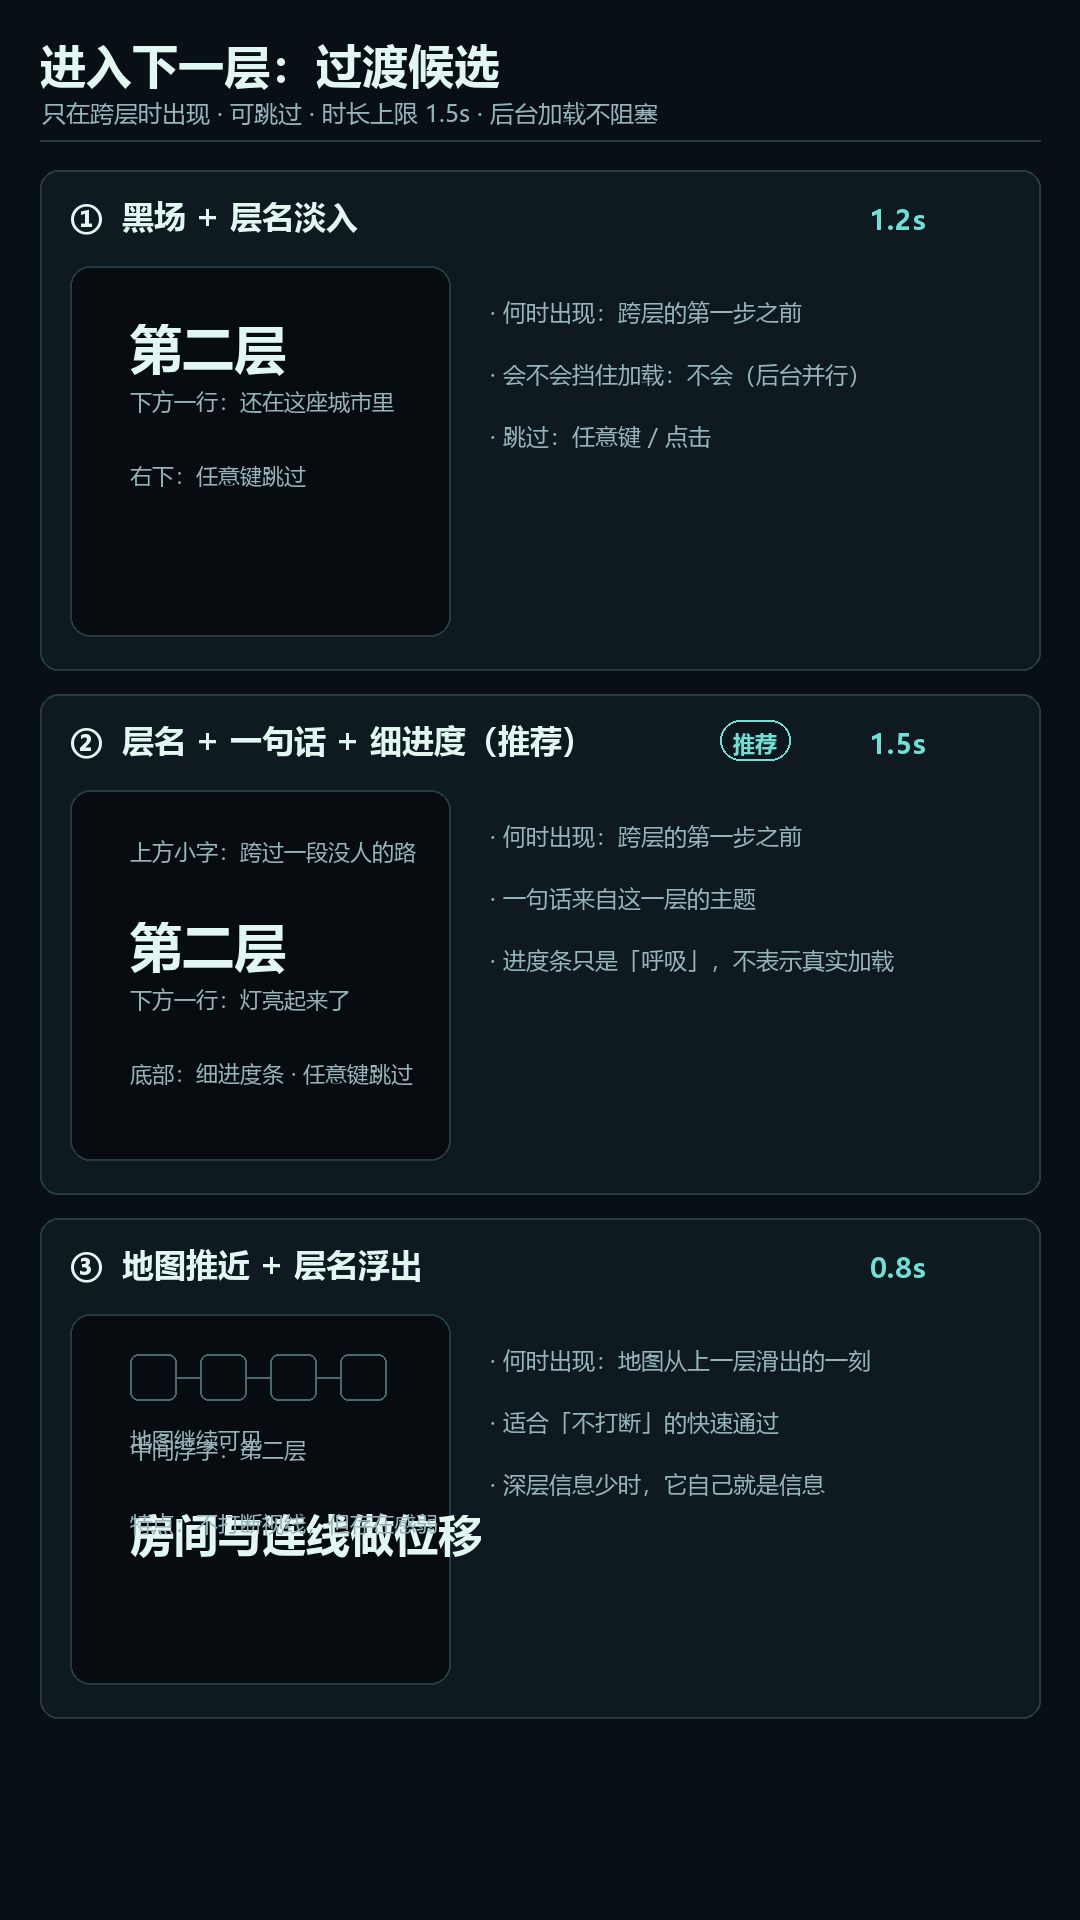
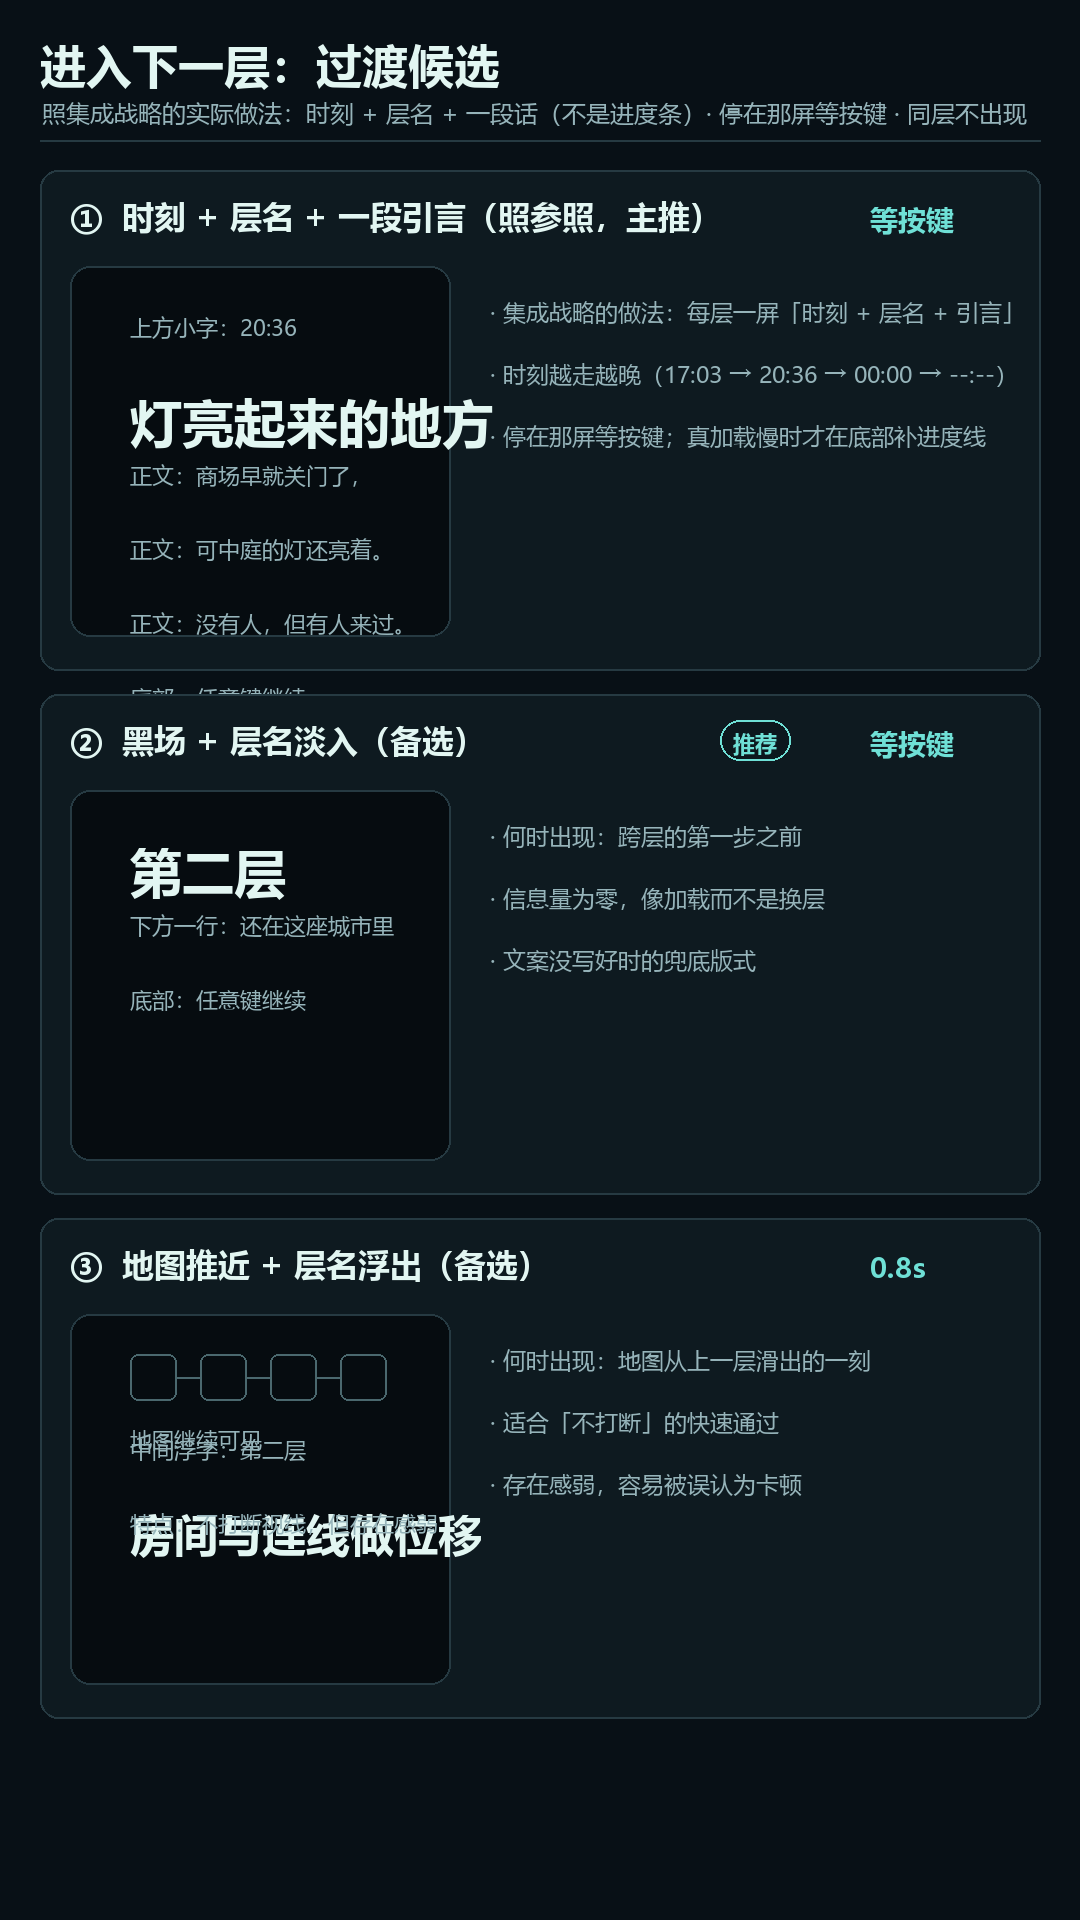
docs(layer-ui): 按集成战略的真实做法改稿 —— 过渡=时刻+层名+引言，信息=节点级浓雾
作者要求："过渡筛选、层级信息显示这些设计，自己去查集成战略的实际做法。"
查证结果有三处和我上一稿不一样，本稿按事实改，并标清"照抄 / 改造 / 不抄"。

查到的事实（出处见文档 §8，MediaWiki API 抓的 wikitext）
- 进入下一层：**一屏「时刻 + 层名 + 一段氛围引言」**（17:03 / 20:36 / 00:00 / --:--），
  每层另有专属失败文案；结算里记一条 "You entered the {floor name} zone"。**不是进度条**。
- 层的结构：每层节点数固定（4/4/6/6/7/4），**层末必有一个固定节点**（行商 / 馈赠 / 强敌 …），
  分支只在层内。
- "信息细节度不同"：不是按层递减，而是**节点级"浓雾（Dense Fog）"**——个别节点在可达前连类型都不给；
  另有上锁分支（看得见进不去）与隐藏分支；从阴云火花起还能**花钥匙改路**。

本稿改动
- §0 新增"查到的实际做法 + 对我们的影响"对照表；
- §1/§2 过渡改为「时刻 + 层名 + 引言」为**主推**（进度条只在真加载慢时兜底；停在那屏等按键，
  不是限时动画），并给出第一章三层文案草案（17:03 放学路上的风 / 20:36 灯亮起来的地方 /
  00:00 不是时间的那个点 / 终房 --:--）；
- §5 拆成两节：5.2 地图可见性**照参照**（整层可见 + 浓雾节点 + 上锁/隐藏分支，
  推翻我上一稿"更远的行显示 ？"）；5.1 界面信息量（状态栏/装备栏按层递减）标明是**作者口径的加法**，
  参照里没有，两者可以并存；
- §6 待拍板改成 5 条（过渡改版 + 文案、信息模型二选一、第 3 层装备栏、状态栏位置、详情卡）；
- §8 新增出处。
- art_tools/live_port/preview_layer_ui.py：过渡图改成参照版式（①时刻+层名+三行引言 / ②黑场层名 /
  ③地图推近），并重出 01_layer_transition.png。

本轮仍未改游戏代码（铁律 8：过稿后再动）。

diff --git a/art_tools/live_port/preview_layer_ui.py b/art_tools/live_port/preview_layer_ui.py
@@ -128,14 +128,15 @@ def gear_cell(d, x, y, size, rarity=None, used=False, unknown=False, index=0):
 
 
 def build_transition():
-    img, d = canvas("进入下一层：过渡候选", "只在跨层时出现 · 可跳过 · 时长上限 1.5s · 后台加载不阻塞")
+    img, d = canvas("进入下一层：过渡候选", "照集成战略的实际做法：时刻 + 层名 + 一段话（不是进度条）· 停在那屏等按键 · 同层不出现")
     y = 170
     blocks = [
-        ("①", "黑场 + 层名淡入", "1.2s",
-         [("中间大字", "第二层"), ("下方一行", "还在这座城市里"), ("右下", "任意键跳过")]),
-        ("②", "层名 + 一句话 + 细进度（推荐）", "1.5s",
-         [("上方小字", "跨过一段没人的路"), ("中间大字", "第二层"), ("下方一行", "灯亮起来了"), ("底部", "细进度条 · 任意键跳过")]),
-        ("③", "地图推近 + 层名浮出", "0.8s",
+        ("①", "时刻 + 层名 + 一段引言（照参照，主推）", "等按键",
+         [("上方小字", "20:36"), ("中间大字", "灯亮起来的地方"), ("正文", "商场早就关门了，"),
+          ("正文", "可中庭的灯还亮着。"), ("正文", "没有人，但有人来过。"), ("底部", "任意键继续")]),
+        ("②", "黑场 + 层名淡入（备选）", "等按键",
+         [("中间大字", "第二层"), ("下方一行", "还在这座城市里"), ("底部", "任意键继续")]),
+        ("③", "地图推近 + 层名浮出（备选）", "0.8s",
          [("保留地图", "房间与连线做位移"), ("中间浮字", "第二层"), ("特点", "不打断视线，但存在感弱")]),
     ]
     for idx, (mark, name, dur, rows) in enumerate(blocks):
@@ -169,9 +170,11 @@ def build_transition():
                 d.text((sx + 60, ry), label + "：" + value, font=font(22), fill=TEXT)
         # 右侧说明
         notes = {
-            0: ["何时出现：跨层的第一步之前", "会不会挡住加载：不会（后台并行）", "跳过：任意键 / 点击"],
-            1: ["何时出现：跨层的第一步之前", "一句话来自这一层的主题", "进度条只是「呼吸」，不表示真实加载"],
-            2: ["何时出现：地图从上一层滑出的一刻", "适合「不打断」的快速通过", "深层信息少时，它自己就是信息"],
+            0: ["集成战略的做法：每层一屏「时刻 + 层名 + 引言」",
+                "时刻越走越晚（17:03 → 20:36 → 00:00 → --:--）",
+                "停在那屏等按键；真加载慢时才在底部补进度线"],
+            1: ["何时出现：跨层的第一步之前", "信息量为零，像加载而不是换层", "文案没写好时的兜底版式"],
+            2: ["何时出现：地图从上一层滑出的一刻", "适合「不打断」的快速通过", "存在感弱，容易被误认为卡顿"],
         }[idx]
         for i, n in enumerate(notes):
             d.text((sx + sw + 40, sy + 30 + i * 62), "· " + n, font=font(23), fill=TEXT)

diff --git a/docs/layer-ui-spec.md b/docs/layer-ui-spec.md
@@ -20,34 +20,54 @@
 
 ---
 
+## 0. 查到的实际做法（集成战略，出处见 §8）
+
+| 问题 | 集成战略的实际做法 | 对我们这一稿的影响 |
+| --- | --- | --- |
+| 进入下一层怎么表现 | **一屏「时刻 + 层名 + 一段氛围引言」**，不是加载进度条。例：第 1 层 `17:03` / *Mist-stricken Missteps*（云雾迷途）+ 三行文字；第 5 层 `00:00` / *Blood-soaked Corridor*（血染的走廊）；第 6 层时刻直接写成 `--:--`（时间已经不存在）。每层另配一段**该层专属的失败文案**；结算里会记一条 `You entered the {层名} zone`。 | 我原先主推的"细进度线"是错的：**过渡的主体是「时刻 + 层名 + 一段话」**，进度条只在真加载慢时兜底。 |
+| 层的结构 | 每层节点数**固定**（前五层 4 / 4 / 6 / 6 / 7，第六层固定 4 个），并且**层末必有一个固定节点**（第 1 层末＝行商、第 2 层末＝馈赠、第 3 层末＝强敌、第 4 层末＝馈赠、第 5 层末＝强敌）。分支只发生在层内。 | "每步 2 个候选"的方向是对的；但**层末应当钉一个固定节点**——我们第 1 层末正好是商店（对应行商 ✓），第 2 层末现在是硬仗（✗，按参照应改成"馈赠"）。 |
+| "信息细节度不同"怎么做的 | **不是按层递减**，而是**节点级遮蔽**：个别节点被标成**「浓雾（Dense Fog）」**，在它变成可达之前**完全无法辨识**，只给一句"雾里有什么东西，但你看不清"；可达时揭开。此外还有**上锁的分支**（看得见、进不去）与**隐藏的分支**（条件不满足时看不见）。 | 我原来写的"越远的行越模糊"是**我编的**，参照里没有。真实做法是"整层可见 + 少数节点被雾遮住"。两者可以并存，但必须分开写清（见 §5）。 |
+| 能不能改路线 | 自阴云火花起可以**花代价改路**：花 1 把钥匙／1 点干扰指数，跳到当前分支里的任意另一个节点，连路线一起改。 | 我提的"付费捷径"有了真实对应物：**不是入场路费，而是花东西换路**（见 chapter-route-spec 的待拍板）。 |
+
+---
+
 ## 1. 什么时候出现过渡
 
 | 时机 | 出不出现 | 备注 |
 | --- | --- | --- |
 | 同一层里换站（第 5 站 → 第 6 站） | ❌ 不出现 | 只在跨层时出现，否则一局要被打断十几次 |
-| **从第 N 层进入第 N+1 层** | ✅ 出现一次 | 一局最多两次（1→2、2→3） |
+| **从第 N 层进入第 N+1 层** | ✅ 出现一次（「时刻 + 层名 + 一段话」那一屏） | 一局最多两次（1→2、2→3） |
 | 进终房 | ✅ 用同一套，但文案换成"这一程的落点" | 与结算页衔接 |
 | 退出/放弃本局 | ❌ | 走现有的确认弹窗 |
 
 **三条硬性要求**（写进实现约束）：
 
-1. **可跳过**：任意键 / 点击立即结束过渡，不惩罚、不二次确认。
-2. **时长上限 1.5s**：默认 1.2–1.5s；玩家连点跳过时不得累计延迟。
-3. **不阻塞加载**：过渡只是"盖一层"，下一层的地图数据、商店候选、谱面都在后台准备；
-   过渡不该被真实加载时间拉长（反过来说：真加载慢时它才需要显示进度）。
+1. **一屏、等玩家确认**：像集成战略那样停在那屏上等按键（任意键／点击继续），**不是限时动画**；
+   想多看两眼就多看两眼。
+2. **不阻塞加载**：下一层的地图数据、商店候选、谱面在后台准备；**只有真加载慢**时才在底部补一条细进度线，
+   平时的过渡里没有进度条。
+3. **同层不出现**：只在跨层与进终房时出现，一局最多三次。
 
 ---
 
 ## 2. 过渡的三个候选
 
-| # | 做法 | 时长 | 好处 | 代价 | 建议 |
-| --- | --- | --- | --- | --- | --- |
-| ① | 黑场 + 层名淡入（下方一行小字） | 1.2s | 最省、最"梦核"；深色里只有字 | 信息量为零，像加载而不是换层 | 备选 |
-| ② | 层名 + 一句话 + 底部细进度线 | 1.5s | 有呼吸：一句话来自这一层的主题（"灯亮起来了"） | 需要为每层写一句话 | **推荐** |
-| ③ | 地图不动，只做推近/位移 + 层名浮出 | 0.8s | 不打断视线 | 存在感弱，容易被误认为卡顿 | 备选 |
+| # | 做法 | 好处 | 代价 | 建议 |
+| --- | --- | --- | --- | --- |
+| ① | **时刻 + 层名 + 一段氛围引言**（集成战略的真实做法） | 一屏就把"换了一层世界"交代完；层名与时刻本身就是叙事 | 每层要写 3–4 行文案 | **主推（照参照）** |
+| ② | 黑场 + 层名淡入（一行小字） | 省；深色里只有字 | 信息量为零，像加载而不是换层 | 备选（文案没写好时用它） |
+| ③ | 地图不动，只推近 + 层名浮出 | 不打断视线 | 存在感弱，容易被误认为卡顿 | 备选 |
 
-第 1 层的一句话、第 2 层的一句话、终房的一句，**各层文案**在第一版里先写死三个常量（Loc key），
-将来接进"每章一张表"。
+**第一章的三层文案草案**（照参照的"时刻"写法：时间越走越晚，第三层已经不是正常时间）：
+
+| 层 | 时刻 | 层名（草案） | 引言（草案） |
+| --- | --- | --- | --- |
+| 第 1 层 | `17:03` | 放学路上的风 | 天还没黑。你戴上耳机，路还是你认识的那条路。 |
+| 第 2 层 | `20:36` | 灯亮起来的地方 | 商场早就关门了，可中庭的灯还亮着。没有人，但有人来过。 |
+| 第 3 层 | `00:00` | 不是时间的那个点 | 末班车早开走了。你还在走，路已经不像刚才那条了。 |
+| 终房 | `--:--` | 这一程的落点 | 到这里，钟不走了。（沿用参照"时间不存在"的写法） |
+
+每层再各写一句**失败文案**（参照里每层都有）：本局在这一层失败时显示。
 
 ---
 
@@ -90,25 +110,50 @@
 
 ## 5. 每层信息细节度（总表）
 
+**先说清两条不同的东西**：
+
+- **参照的做法（节点级浓雾）**：整层的节点与连线都看得见，但**个别节点被"浓雾"遮住**——
+  在它变成可达之前连类型都不给，只给一句"雾里有什么东西，但你看不清"；可达时揭开。
+  另有"上锁分支"（看得见、进不去）与"隐藏分支"（条件不满足时看不见）——**信息与通行权分开**。
+- **我们要加的那一层（按层递减）**：这是**作者口径**（"不同层级信息细节度不同"），参照里没有。
+  它管的是**界面信息量**（状态栏/装备栏/地图各自显示多少），与上面的"节点遮蔽"是两件事，可以并存。
+
+### 5.1 界面信息量（我们的加法）
+
 | 界面 | 第 1 层（近） | 第 2 层 | 第 3 层（远） |
 | --- | --- | --- | --- |
-| 过渡 | 层名 + 一句话 | 同左 | 同左（文案换成"越来越不像你认识的地方"） |
+| 过渡 | 时刻 + 层名 + 引言 | 同左 | 同左（时刻写成 `00:00`，已经不是正常时间） |
 | 状态栏 | 全字段 | 收起来历与进度条 | 只剩 现金 / 层与步 / 负面 |
 | 装备栏 | 描边 + 名字 | 只有描边 | 统一灰 |
-| 地图 · 下一步 | 类型 + 场景名 | 只给类型 | 只给类型 |
-| 地图 · 更远的行 | "？" | "？" | "？" |
 
 理由：与基调一致（"越远越离开现实"），也让**情报类道具**（抄歌本＝本层可见、司机＝下一层可见）
 在深层更值钱——信息本身就是这一程的货币之一。
+
+### 5.2 地图可见性（照参照改）
+
+| 看什么 | 做法 |
+| --- | --- |
+| 本层地图 | **整层可见**（节点 + 连线），玩家一眼能规划路线 |
+| 下一步的候选 | 类型可见（演奏 / 硬仗 / 商店 / 事件 / 休息）——这一条现在代码里已经实现 |
+| **被"雾"遮住的节点** | 类型也不给，显示"雾"与一句氛围文字；**变成可达时揭开**（照参照的 Dense Fog） |
+| 更深的层 | 看不见（一层一层地展开，不显示未来两层的缩略） |
+| 情报类道具 | 抄歌本＝揭开本层剩余节点；司机＝揭开下一层；与"上锁/隐藏分支"配合使用 |
+
+> 这一条**推翻**我上一稿的"更远的行显示 ？"：那不是参照的做法。参照是"整层可见，少数节点被雾遮住"，
+> 而"锁定 / 隐藏分支"把**通行权**与**可见性**分开处理。代码里现存的"远处显示 ？"要按这条改掉。
 
 ---
 
 ## 6. 待拍板
 
-1. **过渡选哪一版**（推荐 ②）；以及"跳过"的触发键（任意键 / 只认点击）。
-2. **第 3 层装备栏**：统一灰（本稿）还是保留稀有度描边。
-3. **状态栏位置**：地图页顶部（本稿），还是常驻在所有成长页（商店/装备/册子）。
-4. **详情卡要不要显示"来历"**：它是"曾经有人为它花过时间"的唯一出口（设计稿 §2.5），
+1. **过渡改版**：按参照用「时刻 + 层名 + 引言」（主推）；三层文案草案在 §2，需要你过稿或重写。
+   以及"继续"的触发键（任意键 / 只认点击）。
+2. **信息模型二选一**：(a) 只照参照做"节点级浓雾 + 上锁/隐藏分支"，**不做**按层递减；
+   (b) 两者都做（浓雾 + 按层递减，本稿的样子）。我倾向 (b)：参照管"路上看得见什么"，
+   递减管"你自己身上的东西显示多少"，两者不冲突。
+3. **第 3 层装备栏**：统一灰（本稿）还是保留稀有度描边。
+4. **状态栏位置**：地图页顶部（本稿），还是常驻在所有成长页（商店/装备/册子）。
+5. **详情卡要不要显示"来历"**：它是"曾经有人为它花过时间"的唯一出口（设计稿 §2.5），
    建议保留，但作者可以决定它只出现在册子里。
 
 ---
@@ -124,3 +169,20 @@
 
 **验收模板**（实现时照这个交）：① 自检：只在跨层触发、可跳过、时长上限、装备栏不超过 8 格；
 ② Play：走一条跨 1→2→3 的路线，看三次过渡与三层状态栏/装备栏的差异；③ 反例：同层换站不出现过渡。
+
+---
+
+## 8. 出处（2026-09-27 查证）
+
+- **Arknights Fandom Wiki — *Integrated Strategies*（主条目）**：楼层划分与每层节点数
+  （前五层 4 / 4 / 6 / 6 / 7，第六层固定 4 个）、**层末固定节点**（第 1 层末＝行商、第 2 层末＝馈赠、
+  第 3 层末＝强敌……）、节点类型表、**Dense Fog（浓雾）节点**、花钥匙改路、上锁分支与隐藏分支。
+  <https://arknights.fandom.com/wiki/Integrated_Strategies>
+- **Arknights Fandom Wiki — *Phantom & Crimson Solitaire*（阴云火花）**：每层的
+  **层名 / 时刻 / 开场引言 / 失败文案**、结算里那条 `You entered the {floor name} zone`、
+  每层计分（30 / 80 / 150 / 270 / 400 / 550）。
+  <https://arknights.fandom.com/wiki/Phantom_%26_Crimson_Solitaire>
+
+查证方式：MediaWiki API（`action=parse&prop=wikitext`，带浏览器 UA），抓取时间 2026-09-27；
+原始 wikitext 留在本机临时目录（未入库）。中文术语（阶层 / 不期而遇 / 诡意行商 / 安全的角落）
+与英文条目一一对应，PRTS 侧同样可查。
